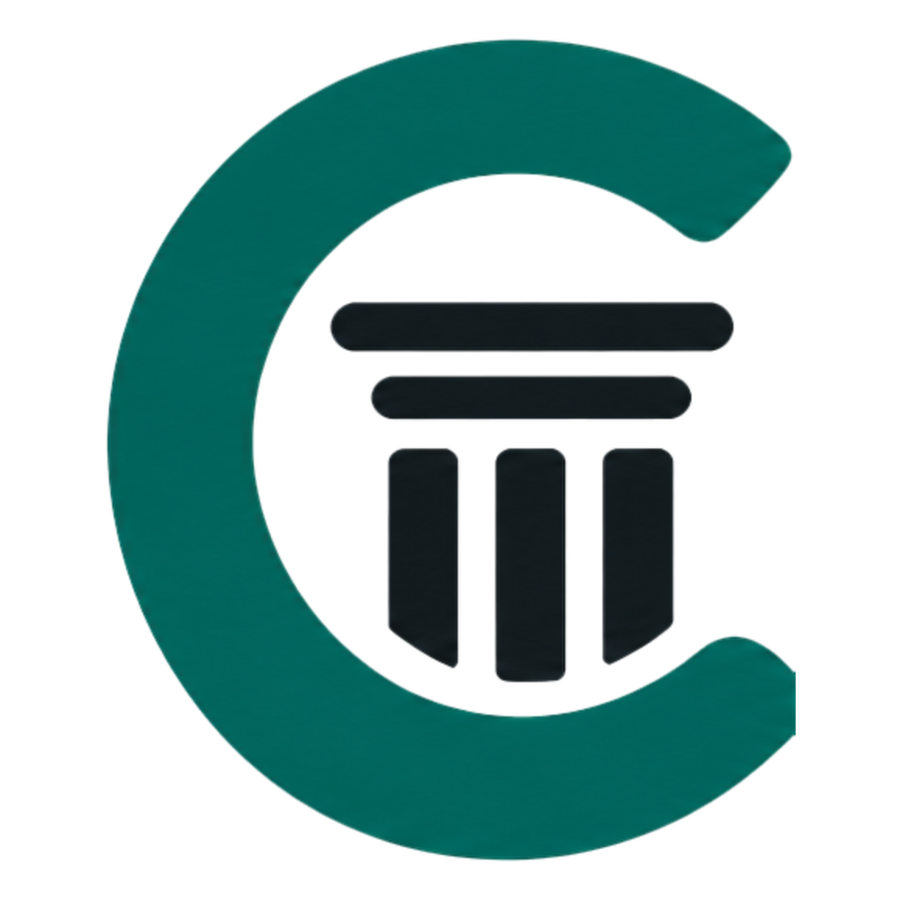
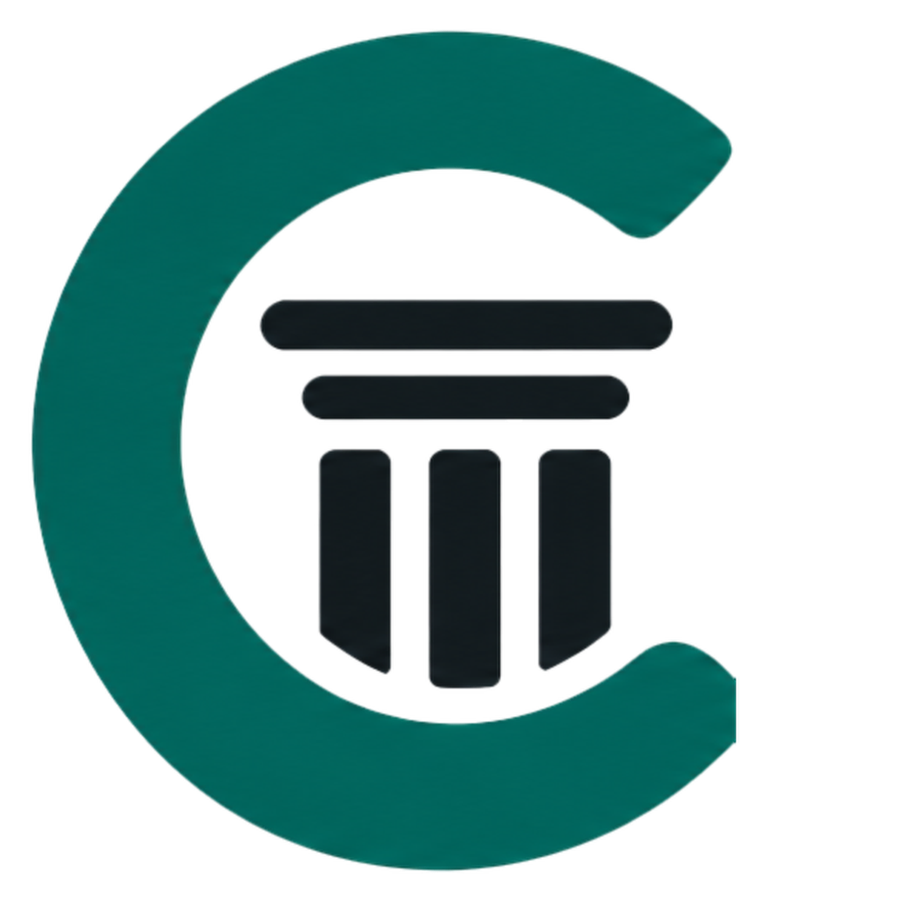
Centre Civory mark, new SpendLeak receipt
Claude-Session: https://claude.ai/code/session_01QUGrz96FadosyQxGu9ByZ2

Changed region(s): [[0.0311, 0.0311, 0.9022, 0.9956]]

diff --git a/src/styles.css b/src/styles.css
@@ -162,7 +162,7 @@ button{font:inherit;color:inherit;background:none;border:0;cursor:pointer;paddin
 .ticker{position:absolute;left:0;right:0;bottom:0;display:flex;gap:40px;width:max-content;padding:14px 0;animation:tick 40s linear infinite;font-size:12.5px;color:var(--steel-soft);font-variant-numeric:tabular-nums}
 .ticker span::before{content:'';display:inline-block;width:5px;height:5px;margin-right:10px;border-radius:50%;background:var(--steel);vertical-align:middle}
 @keyframes tick{to{transform:translateX(-50%)}}
-.pv-civ{position:relative;z-index:2;width:44%;max-width:300px;translate:7% 0;filter:drop-shadow(0 26px 34px rgba(20,30,43,.25))}
+.pv-civ{position:relative;z-index:2;width:56%;max-width:380px;filter:drop-shadow(0 26px 34px rgba(20,30,43,.25))}
 .civ-rings{position:absolute;inset:0;display:grid;place-items:center}
 .civ-rings span{position:absolute;width:68%;aspect-ratio:1;border-radius:50%;border:1px solid rgba(20,30,43,.14)}
 .civ-rings span+span{width:92%;border-style:dashed;animation:spin 90s linear infinite}
@@ -181,20 +181,30 @@ button{font:inherit;color:inherit;background:none;border:0;cursor:pointer;paddin
 .proj-feats li{position:relative;padding-left:22px;font-size:14px;color:var(--ink-2);line-height:1.45}
 .proj-feats li::before{content:'';position:absolute;left:0;top:.65em;width:12px;height:1px;background:var(--steel-deep)}
 .proj-spendleak .proj-visual{background:linear-gradient(160deg,#E6ECE4,#D3DFD2)}
-.pv-spendleak{gap:0;padding:8%;align-content:center}
-.pv-sl{width:30%;max-width:170px;margin-bottom:-6%;position:relative;z-index:2;filter:drop-shadow(0 18px 24px rgba(20,60,30,.25))}
-.sl-audit{width:min(86%,380px);background:var(--paper);border-radius:var(--r);box-shadow:0 30px 60px -30px rgba(20,30,43,.45);padding:22px 20px 16px;font-size:13px}
-.sl-head{display:flex;justify-content:space-between;align-items:center;padding-bottom:12px;border-bottom:1px solid var(--line);font-weight:500}
-.sl-live{display:inline-flex;align-items:center;gap:6px;font-size:12px;color:#2F6B3F}
-.sl-live::before{content:'';width:6px;height:6px;border-radius:50%;background:#3E9A55;animation:blink 1.4s infinite}
-@keyframes blink{50%{opacity:.2}}
-.sl-row{display:flex;justify-content:space-between;gap:12px;padding:10px 0;border-bottom:1px solid var(--line);color:var(--ink-2)}
-.sl-row b{font-weight:600;font-variant-numeric:tabular-nums}
-.sl-row.flag b{color:#A2463C}
-.sl-row.flag span::before{content:'';display:inline-block;width:6px;height:6px;margin-right:9px;border-radius:50%;background:#C0675C;vertical-align:middle}
-.sl-row.ok b{color:#2F6B3F;font-weight:500}
-.sl-total{display:flex;justify-content:space-between;align-items:baseline;padding-top:12px}
-.sl-total strong{font:400 1.7rem/1 var(--f-serif);color:#1E5A33;font-variant-numeric:tabular-nums}
+.pv-spendleak{perspective:1200px}
+.proj-spendleak .proj-visual{background:radial-gradient(90% 70% at 50% 30%,#E9EFE6,#C9D8C6)}
+.rcpt-wrap{rotate:-2deg;filter:drop-shadow(0 34px 40px rgba(28,60,36,.28))}
+.rcpt{position:relative;width:min(78vw,330px);background:#FCFBF7;padding:22px 22px 30px;font:500 12.5px/1.5 ui-monospace,'SF Mono',Menlo,Consolas,monospace;color:#2A332C;overflow:hidden;
+  -webkit-mask:conic-gradient(from -45deg at bottom,#0000,#000 1deg 89deg,#0000 90deg) bottom/14px 100%;mask:conic-gradient(from -45deg at bottom,#0000,#000 1deg 89deg,#0000 90deg) bottom/14px 100%}
+.rcpt-top{display:flex;align-items:center;gap:12px;padding-bottom:14px;border-bottom:1.5px dashed rgba(42,51,44,.3)}
+.rcpt-logo{width:40px;height:40px;object-fit:contain}
+.rcpt-top strong{display:block;font:500 1.25rem/1 var(--f-serif);letter-spacing:-.01em}
+.rcpt-top span{font-size:11px;color:#6D776F}
+.rcpt-meta{display:flex;justify-content:space-between;gap:10px;padding:10px 0;font-size:11px;color:#6D776F;border-bottom:1.5px dashed rgba(42,51,44,.3)}
+.rcpt-rows{padding:6px 0}
+.rr{position:relative;display:grid;grid-template-columns:1fr auto;gap:2px 10px;padding:9px 0}
+.rr span{min-width:0}
+.rr b{font-weight:600;font-variant-numeric:tabular-nums}
+.rr em{grid-column:1/3;font-style:normal;font-size:10.5px;letter-spacing:.04em}
+.rr.flag em{color:#B04A3E}
+.rr.flag b{color:#B04A3E}
+.rr.flag::before{content:'';position:absolute;left:-22px;top:9px;bottom:9px;width:3px;background:#C9594C;transform-origin:top}
+.rr.ok em{color:#3E7A4D}
+.rcpt-total{display:flex;justify-content:space-between;align-items:baseline;padding-top:12px;border-top:1.5px dashed rgba(42,51,44,.3)}
+.rcpt-total strong{font:400 2rem/1 var(--f-serif);color:#1E5A33;font-variant-numeric:tabular-nums}
+.rcpt-bar{height:26px;margin-top:16px;background:repeating-linear-gradient(90deg,#2A332C 0 2px,transparent 2px 4px,#2A332C 4px 5px,transparent 5px 8px,#2A332C 8px 11px,transparent 11px 12px);opacity:.75}
+.rcpt-scan{position:absolute;left:0;right:0;top:0;height:60px;background:linear-gradient(transparent,rgba(62,154,85,.16) 70%,rgba(62,154,85,.7) 98%,transparent);pointer-events:none;opacity:0}
+.rcpt-stamp{position:absolute;right:14px;top:47%;padding:6px 12px;border:2.5px solid #2F7A45;border-radius:6px;color:#2F7A45;font:600 15px/1 var(--f-body);letter-spacing:.12em;text-transform:uppercase;rotate:-14deg;opacity:0;mix-blend-mode:multiply}
 .proj-metrics{display:flex;gap:clamp(18px,3vw,40px);margin:0 0 34px;padding-top:22px;border-top:1px solid var(--line)}
 .proj-metrics dt{font:400 clamp(1.5rem,2.2vw,2rem)/1 var(--f-serif);letter-spacing:-.02em}
 .proj-metrics dd{margin:6px 0 0;font-size:13px;color:var(--ink-3)}

diff --git a/src/render.js b/src/render.js
@@ -42,14 +42,20 @@ const projectVisual = key => {
       <path class="trend" d="M20 200 C70 190 90 150 130 160 S200 110 230 115 S300 50 345 40"/>
     </svg><div class="ticker" aria-hidden="true"><span>CYFA +4.2%</span><span>Team Maple 12,480</span><span>Order filled</span><span>Leaderboard updated</span><span>CYFA +4.2%</span><span>Team Maple 12,480</span><span>Order filled</span><span>Leaderboard updated</span></div></div>`;
   }
-  if (key === 'spendleak') return `<div class="pv pv-spendleak"><img src="/images/spendleak-mark.png" alt="SpendLeak logo" class="pv-sl" loading="lazy"><div class="sl-audit" aria-hidden="true">
-      <div class="sl-head"><span>Invoice audit</span><span class="sl-live">Scanning</span></div>
-      <div class="sl-row flag"><span>Duplicate invoice · INV-2041</span><b>$4,820</b></div>
-      <div class="sl-row flag"><span>Contract price mismatch</span><b>$1,260</b></div>
-      <div class="sl-row flag"><span>Unused software seats</span><b>$940</b></div>
-      <div class="sl-row ok"><span>Freight charges</span><b>Matched</b></div>
-      <div class="sl-total"><span>Recoverable</span><strong data-sl-total>$7,020</strong></div>
-    </div></div>`;
+  if (key === 'spendleak') return `<div class="pv pv-spendleak"><div class="rcpt-wrap"><div class="rcpt" aria-hidden="true">
+      <div class="rcpt-top"><img src="/images/spendleak-mark.png" alt="" class="rcpt-logo"><div><strong>SpendLeak</strong><span>Audit report · #0417</span></div></div>
+      <div class="rcpt-meta"><span>Vendor: Northwind Supply</span><span>Q3 invoices: 142</span></div>
+      <div class="rcpt-rows">
+        <div class="rr flag"><span>Duplicate invoice INV-2041</span><b>$4,820</b><em>Flagged</em></div>
+        <div class="rr flag"><span>Price above contract rate</span><b>$1,260</b><em>Flagged</em></div>
+        <div class="rr flag"><span>Unused software seats ×7</span><b>$940</b><em>Flagged</em></div>
+        <div class="rr ok"><span>Freight charges</span><b>$2,315</b><em>Matched</em></div>
+      </div>
+      <div class="rcpt-total"><span>Recoverable</span><strong data-sl-total>$7,020</strong></div>
+      <div class="rcpt-bar"></div>
+      <div class="rcpt-scan"></div>
+      <div class="rcpt-stamp">Recovered</div>
+    </div></div></div>`;
   return `<div class="pv pv-civory"><div class="civ-rings" aria-hidden="true"><span></span><span></span></div><img src="/images/civory-mark.png" alt="Civory logo" class="pv-civ" loading="lazy"><div class="civ-words" aria-hidden="true"><span>Statutes</span><span>Parliament</span><span>Courts</span><span>Policy</span></div></div>`;
 };
 

diff --git a/src/main.js b/src/main.js
@@ -279,11 +279,18 @@ function init() {
     }
     if (panel.classList.contains('proj-spendleak')) {
       const tot = $('[data-sl-total]', panel), o = { v: 0 };
+      const rc = $('.rcpt', panel);
       gsap.timeline({ scrollTrigger: { trigger: panel, ...st } })
-        .from($('.pv-sl', panel), { y: -40, scale: .6, opacity: 0, duration: 1.4, ease: 'expo.out' })
-        .from($('.sl-audit', panel), { y: 60, opacity: 0, duration: 1.2, ease: 'expo.out' }, .1)
-        .from($$('.sl-row', panel), { x: -30, opacity: 0, duration: .7, stagger: .14, ease: 'power3.out' }, .5)
-        .to(o, { v: 7020, duration: 1.6, ease: 'power2.out', onUpdate: () => tot.textContent = '$' + Math.round(o.v).toLocaleString('en-CA') }, .7);
+        .from($('.rcpt-wrap', panel), { yPercent: 40, rotate: -12, opacity: 0, duration: 1.4, ease: 'expo.out' })
+        .from($$('.rcpt-top, .rcpt-meta', panel), { opacity: 0, y: 10, duration: .5, stagger: .1 }, .3)
+        .fromTo($('.rcpt-scan', panel), { y: -60, opacity: 1 }, { y: () => rc.offsetHeight, duration: 1.8, ease: 'power1.inOut' }, .5)
+        .from($$('.rr', panel), { opacity: 0, x: -14, duration: .45, stagger: .32, ease: 'power2.out' }, .6)
+        .from($$('.rr em', panel), { opacity: 0, duration: .3, stagger: .32 }, .9)
+        .to($('.rcpt-scan', panel), { opacity: 0, duration: .3 }, 2.3)
+        .to(o, { v: 7020, duration: 1.2, ease: 'power2.out', onUpdate: () => tot.textContent = '$' + Math.round(o.v).toLocaleString('en-CA') }, 2)
+        .fromTo($('.rcpt-stamp', panel), { scale: 2.6, opacity: 0 }, { scale: 1, opacity: .9, duration: .45, ease: 'back.out(2.2)' }, 3.1)
+        .fromTo(rc, { x: 0 }, { x: 3, duration: .06, yoyo: true, repeat: 3 }, 3.5);
+      gsap.to($('.rcpt-wrap', panel), { y: -8, rotate: 1, duration: 3.2, ease: 'sine.inOut', yoyo: true, repeat: -1 });
     }
     if (panel.classList.contains('proj-cyfa')) {
       gsap.from($('.pv-logo', panel), { scale: .75, opacity: 0, duration: 1.8, ease: 'expo.out', scrollTrigger: { trigger: panel, ...st } });
